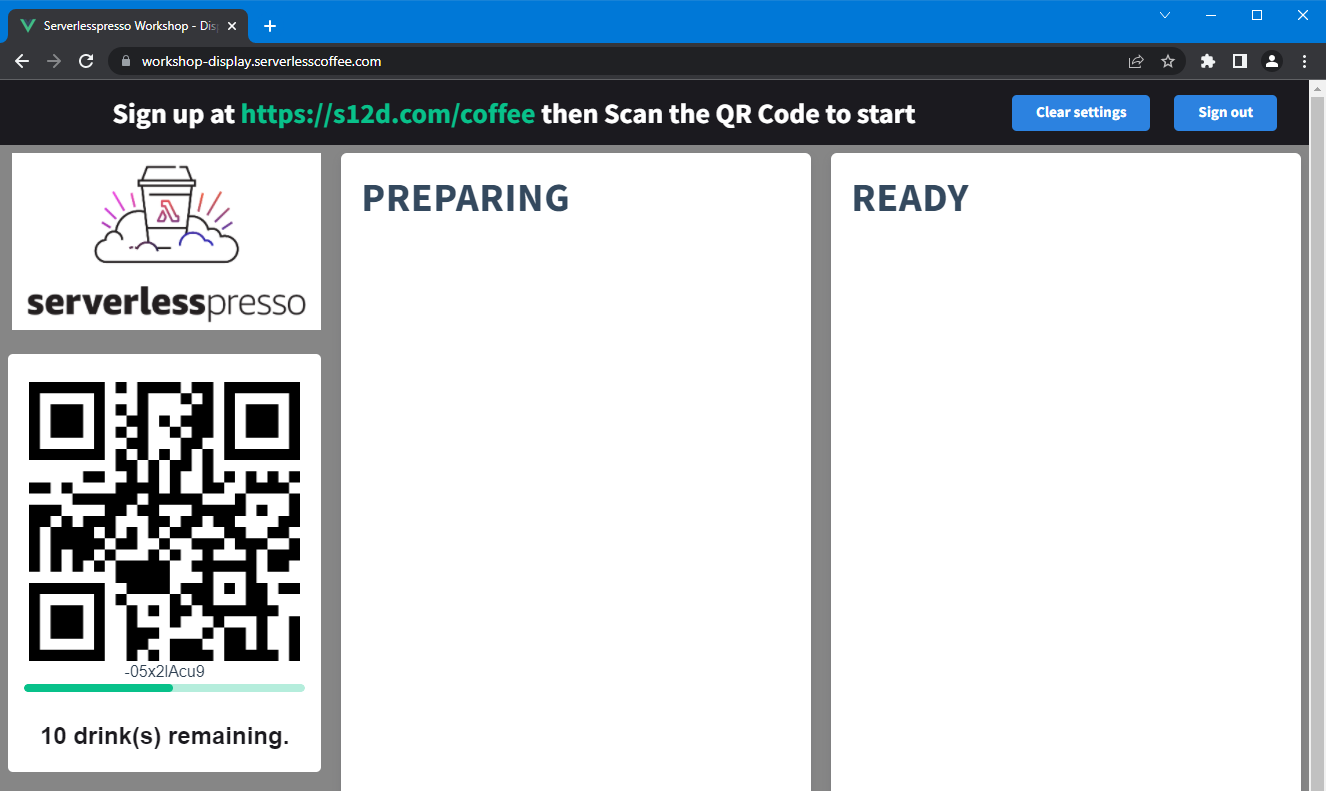
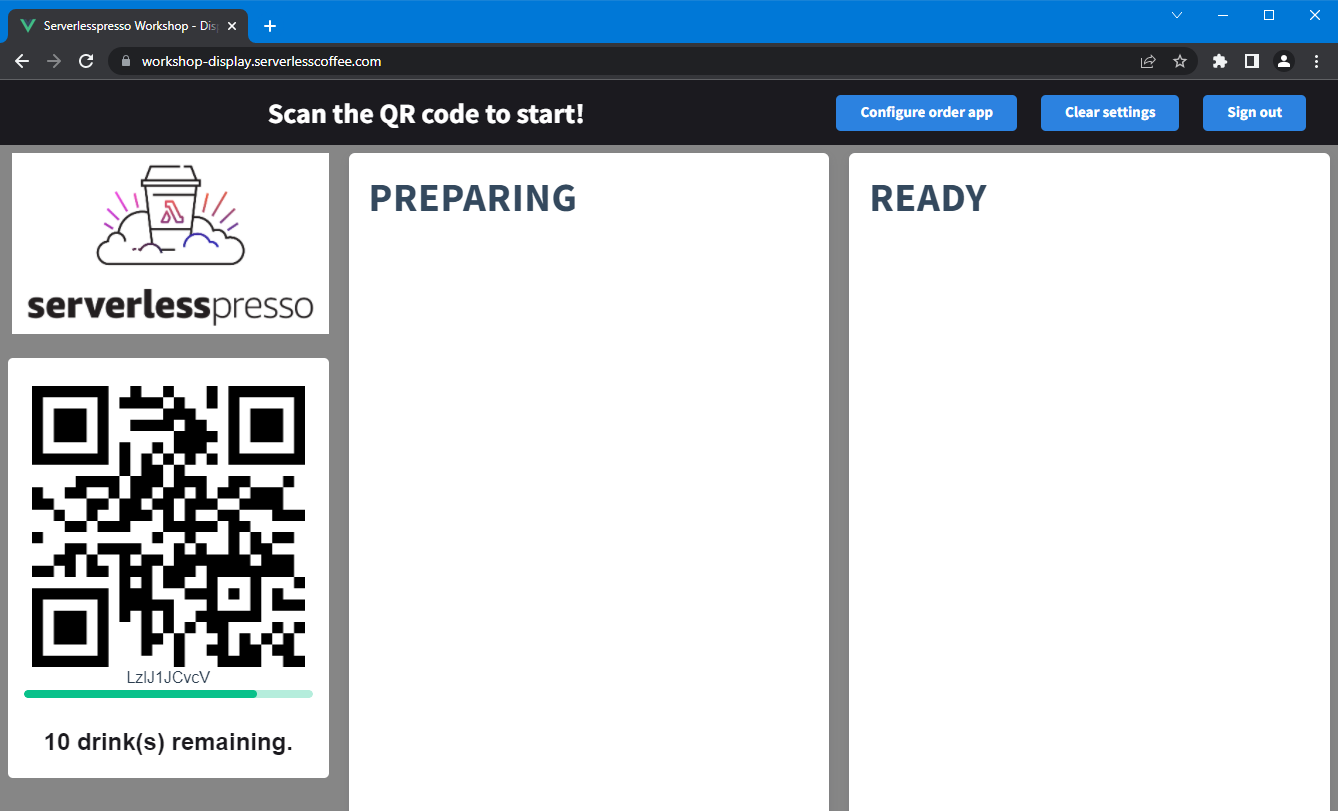
Updates

Changed region(s): [[0.0, 0.0, 1.0, 1.0]]

diff --git a/instructions/content/3-Web-apps/1-Overview/_index.en.md b/instructions/content/3-Web-apps/1-Overview/_index.en.md
@@ -3,8 +3,45 @@ title = "Overview"
 weight = 11
 +++
 
-Park guests love taking photos on the rides and attractions. This app feature will let guests take a selfie and see a composited picture in the application. From here, they can publish their masterpiece on social media.
+The frontends enable customers and baristas to interact with the backend application. There are 3 frontend applications:
 
-{{% notice info %}}
-This module is also available to [watch on YouTube](https://www.youtube.com/watch?v=aNgmgZjzNr4).
-{{% /notice %}}
+* **Display App**: displays the QR code and upcoming/completed drinks orders.
+* **Barista App**: allows the barista to complete and cancel orders as they arrive.
+* **Customer App**: enables customers to place and cancel drinks orders.
+
+In this module, you will set up each of these frontends, so you can perform an end-to-end test of your backend application.
+
+## How it works
+
+* The frontends are Vue.js applications that have been deployed with [AWS Amplify](https://aws.amazon.com/amplify/). For simplicity, these have been deployed for you already.
+* The frontend applications use Amazon Cognito to allow customers to register and sign-in to their accounts. The backend uses the same Cognito configuration to identify users.
+* The frontends use [Amazon API Gateway](https://aws.amazon.com/api-gateway/) endpoints to communicate with key services.
+* They also use a WebSocket connection to [AWS IoT Core](https://aws.amazon.com/iot-core/) to receive real-time messages. You will set this up in the next module.
+
+## Pushing messages back to the frontends with WebSockets
+
+Modern web applications commonly use the publish-subscribe pattern to receive notifications as data changes. From receiving alerts when new email arrives to providing dashboard analytics, this method allows for much richer streams of event from backend systems.
+
+The Serverlesspresso frontends use this pattern when listening for changes in order status. The frontends subscribe via the AWS SDK and then wait for messages published by the backend. The SDK automatically manages the WebSocket connection and also handles many common connectivity issues in web apps. The messages are categorized using topics, which are strings defining channels of messages.
+
+The AWS IoT Core service manages broadcasts between backend publishers and frontend subscribers. This enables fan-out functionality, which occurs when multiple subscribers are listening to the same topic. You can broadcast messages to thousands of frontend devices using this mechanism. For web application integration, this is the preferable way to implement publish-subscribe than using Amazon SNS.
+
+*To learn more about different ways to communicate between frontends and backends, read [Managing backend requests and frontend notifications in serverless web apps](https://aws.amazon.com/blogs/compute/managing-backend-requests-and-frontend-notifications-in-serverless-web-apps/).*
+
+## Finding the settings
+
+The frontends are hosted for you and require configuration to connect to the backend you have deployed in this workshop. The settings for all three applications are the same but you must configure each individually.
+
+1. You will need the outputs that you saved from the core deployment in the *Setup* module. If you have these, skip ahead to the next section, otherwise continue.
+
+2. You can fetch the outputs from the CloudFormation stack deployed by AWS SAM. Navigate to the [AWS CloudFormation console](https://console.aws.amazon.com/cloudformation/home). Make sure that the Region is the same.
+
+3. Select the *Stacks* menu on the left, then choose the *Stack name* *serverlesspresso-backend*.
+
+![CloudFormation stacks](/images/se-mod3-backend-display2.png)
+
+4. Select the *Outputs* tab. This displays the resource names and values needed for the front-end configuration settings.
+
+![CloudFormation stack outputs](/images/se-mod3-backend-display3.png)
+
+Wherever the instructions reference the "Key" names, enter the corresponding "Value". The values unique identify resources in your backend stack.

diff --git a/instructions/content/3-Web-apps/2-frontends/2-baristaapp/_index.en.md b/instructions/content/3-Web-apps/2-frontends/2-baristaapp/_index.en.md
@@ -3,13 +3,61 @@ title = "The Barista App"
 weight = 12
 +++
 
-The function takes the processed image from the previous section - the person with the green background removed - and composites various graphics elements into a final image. This final image is saved in the final bucket.
+The Barista App runs on a tablet next to coffee bar and it's operated by the barista. It provides a list of upcoming orders and enables the barista to mark incoming orders as completed or canceled.
 
 ## Inside this section
 
-TBD
+This frontend has already been deployed and is presented as a hosted UI at https://workshop-barista.serverlesscoffee.com/.
 
+- The hosted UI presents a configuration page when you first visit this URL.
+- After entering the configuration settings, it stores these in the browser's local cache.
+- The setting you use are not visible to anyone else visiting the same URL.
+
+*Source code for this application:*
+* [The Barista App](#)
+
+## Setting up the Barista App
+
+### Step-by-step instructions ###
+
+1. Open a new tab in your browser. We recommend using Chrome or Firefox throughout the workshop.
+
+![Settings page](/images/se-mod3-frontends-barista1.png)
+
+2. Going down the list of settings in the frontend settings page:
+- **Region**: enter the Region code you have been using during the workshop (e.g. `us-east-`).
+- **UserPoolID**: enter the value from the key `UserPoolID` from the CloudFormation stack.
+- **UserPoolWebClientID**: enter the value from the key `UserPoolClient` from the CloudFormation stack.
+- **PoolId**: enter TBD.
+- **Host**: enter TBD.
+- **OrderManagerEndpoint**: enter the value from the key `RESTApiForOrderManager` from the CloudFormation stack.
+- **APIGWEndpointValidatorService**: enter the value from the key `RESTApiForValidatorService` from the CloudFormation stack.
+- **APIGWEndpointConfigService**: enter the value from the key `RESTApiForConfigService` from the CloudFormation stack.
+
+![Settings page](/images/se-mod3-frontends-barista2.png)
+
+3. Choose **Save and reload**.
+
+![Cognito signin](/images/se-mod3-frontends-barista3.png)
+
+4. Select the *Create Account* tab. Enter a valid email you have access to during the workshop, together with a password. Choose **Create Account**
+
+![Cognito signin completed](/images/se-mod3-backend-display6.png)
+
+5. Enter the verification code from the email and choose **Confirm**.
+
+![Verification code](/images/se-mod3-backend-display7.png)
+
+6. The Barista App is shown.
+
+![Barista App](/images/se-mod3-frontends-barista4.png)
+
+Note the three admin buttons provided on the tool bar:
+
+* **Open store**: This toggles the store open state between *Open* and *Closed*. When the store is closed, the Order App cannot place any new orders.
+* **Clear settings**: Empties the local settings cache and clears the backend settings. This causes the *Settings* page to be displayed the next time the page reloads. Use this if you want to change your backend settings.
+* **Sign out**: Signs out the Cognito user from the frontend and returns you to the sign-in page.
 
 ## Next steps
 
-TBD
+Next, you will set up the Order App.

diff --git a/instructions/content/3-Web-apps/2-frontends/_index.en.md b/instructions/content/3-Web-apps/2-frontends/_index.en.md
@@ -3,43 +3,9 @@ title = "Frontends"
 weight = 12
 +++
 
-## Overview
-
-The frontends enables customers and barista to interact with the backend application. There are 3 frontend applications:
-
-* **Display App**: displays the QR code and upcoming/completed drinks orders.
-* **Barista App**: allows the barista to complete and cancel orders as they arrive.
-* **Customer App**: enables customers to place and cancel drinks orders.
-
-In this module, you will set up each of these frontends, so you can perform an end-to-end test of your backend application.
-
-## How it works
-
-* The frontend applications use Amazon Cognito to allow customers to register and sign-in to their accounts. The backend uses the same Cognito configuration to identify users.
-* The frontends use API Gateway endpoints to communicate with key services.
-* They also use a WebSocket connection to AWS IoT Core to receive real-time messages. You will set this up in the next module.
-
-## Finding the settings
-
-The settings for all three applications are the same but you must configure each individually.
-
-1. You will need the outputs that you saved from the core deployment in the *Setup* module. If you have these, skip ahead to the next section, otherwise continue.
-
-2. You can fetch the outputs from the CloudFormation stack deployed by AWS SAM. Navigate to the [AWS CloudFormation console](https://console.aws.amazon.com/cloudformation/home). Make sure that the Region is the same.
-
-3. Select the *Stacks* menu on the left, then choose the *Stack name* *serverlesspresso-backend*.
-
-![CloudFormation stacks](/images/se-mod3-backend-display2.png)
-
-4. Select the *Outputs* tab. This displays the resource names and values needed for the front-end configuration settings.
-
-![CloudFormation stack outputs](/images/se-mod3-backend-display3.png)
-
-Wherever the instructions reference the "Key" names, enter the corresponding "Value". The values unique identify resources in your backend stack.
-
 ## Configure the frontends
 
-There are three parts to this module:
+There are three parts to this section:
 
 1. [Configure the Display App](./2-frontends/1-displayapp.html)
 2. [Configure the Barista App](./2-frontends/2-baristaapp.html)

diff --git a/instructions/content/3-Web-apps/2-frontends/3-customerapp/_index.en.md b/instructions/content/3-Web-apps/2-frontends/3-customerapp/_index.en.md
@@ -3,14 +3,43 @@ title = "The Customer App"
 weight = 13
 +++
 
-The final Lambda function in the photo processing pipeline is triggered when the final image is rendered and saved into the S3 **finalbucket**. It will save the photo object information into the DynamoDB table and send a message to the IoT topic so the frontend application is notified.
-
+The Customer App runs on customers smartphones. When they first scan the QR code using a smartphone, the URL redirects the browser to this web app.
 
 ## Inside this section
 
-TBD
+This frontend has already been deployed and is presented as a hosted UI at https://workshop-order.serverlesscoffee.com/.
+
+- The hosted UI presents a configuration page when you first visit this URL.
+- After entering the configuration settings, it stores these in the browser's local cache.
+- The setting you use are not visible to anyone else visiting the same URL.
+
+*Source code for this application:*
+* [The Customer App ](#)
+
+## Setting up the Customer App
+
+### Step-by-step instructions ###
+
+1. You can transfer the configuration from the Display App to avoid typing the settings manually on your smartphone. If you have configured the Display App, switch to that tab in your browser, or navigate to https://workshop-display.serverlesscoffee.com/. Choose the **Configure order app** button in the toolbar.
+
+![Settings page](/images/se-mod3-frontends-customer1.png)
+
+2. This opens a popup containing a QR code, which embeds the backend settings into a query string.
+
+![Configuration settings](/images/se-mod3-frontends-customer2.png)
+
+3. On your smartphone, use the barcode scanner app to scan this QR code. This opens the configuration settings page and populates the fields with the backend settings.
+
+![Configuration settings](/images/se-mod3-frontends-customer3.png)
+
+4. Choose **Save and reload**.
+
+
+
+TODO: SCAN THE BARCODE
+
 
 
 ## Next steps
 
-TBD
+Next, you will set up the Barista App.

diff --git a/instructions/content/3-Web-apps/2-frontends/1-displayapp/_index.en.md b/instructions/content/3-Web-apps/2-frontends/1-displayapp/_index.en.md
@@ -20,7 +20,7 @@ This frontend has already been deployed and is presented as a hosted UI at https
 
 ### Step-by-step instructions ###
 
-1. Open a new table in your browser. We recommend using Chrome or Firefox throughout the workshop.
+1. Open a new tab in your browser. We recommend using Chrome or Firefox throughout the workshop.
 
 ![Settings page](/images/se-mod3-backend-display1.png)
 
@@ -48,16 +48,17 @@ This frontend has already been deployed and is presented as a hosted UI at https
 
 ![Verification code](/images/se-mod3-backend-display7.png)
 
-6. The display app is shown.
+6. The Display App is now shown.
 
 ![Display app](/images/se-mod3-backend-display8.png)
 
-Note the two admin button provided in the top right-hand corner:
+Note the three admin buttons provided in the top right-hand corner:
 
+* **Configure order app**: Use this for transferring settings to the Order App later in this section.
 * **Clear settings**: Empties the local settings cache and clears the backend settings. This causes the *Settings* page to be displayed the next time the page reloads. Use this if you want to change your backend settings.
 * **Sign out**: Signs out the Cognito user from the frontend and returns you to the sign-in page.
 
-
+The QR code shown will change every five minutes and limit the total number of orders to the value shown on the screen (10 by default). Later, in the end-to-end test, you will scan this QR code to start the ordering process.
 
 ## Next steps
 

diff --git a/instructions/content/3-Web-apps/_index.en.md b/instructions/content/3-Web-apps/_index.en.md
@@ -1,12 +1,8 @@
 +++
-title = "Interactive web apps"
+title = "Configuring the frontends"
 chapter = true
 weight = 13
 pre = "<b>3. </b>"
 +++
 
-Time to configure the front end applications.
-* Log in using a valid QR code
-* Submit an order
-* Progress an order from start to completion
-* Publish updates to the Front end applicaitons using IoT core to manage an open websocket connection
+The coffee shop uses three different frontend applications to co-ordinate orders between baristas and customers. In this section, you'll configure the frontend applications to connect to the backend that you've build so far, and send some test orders.
